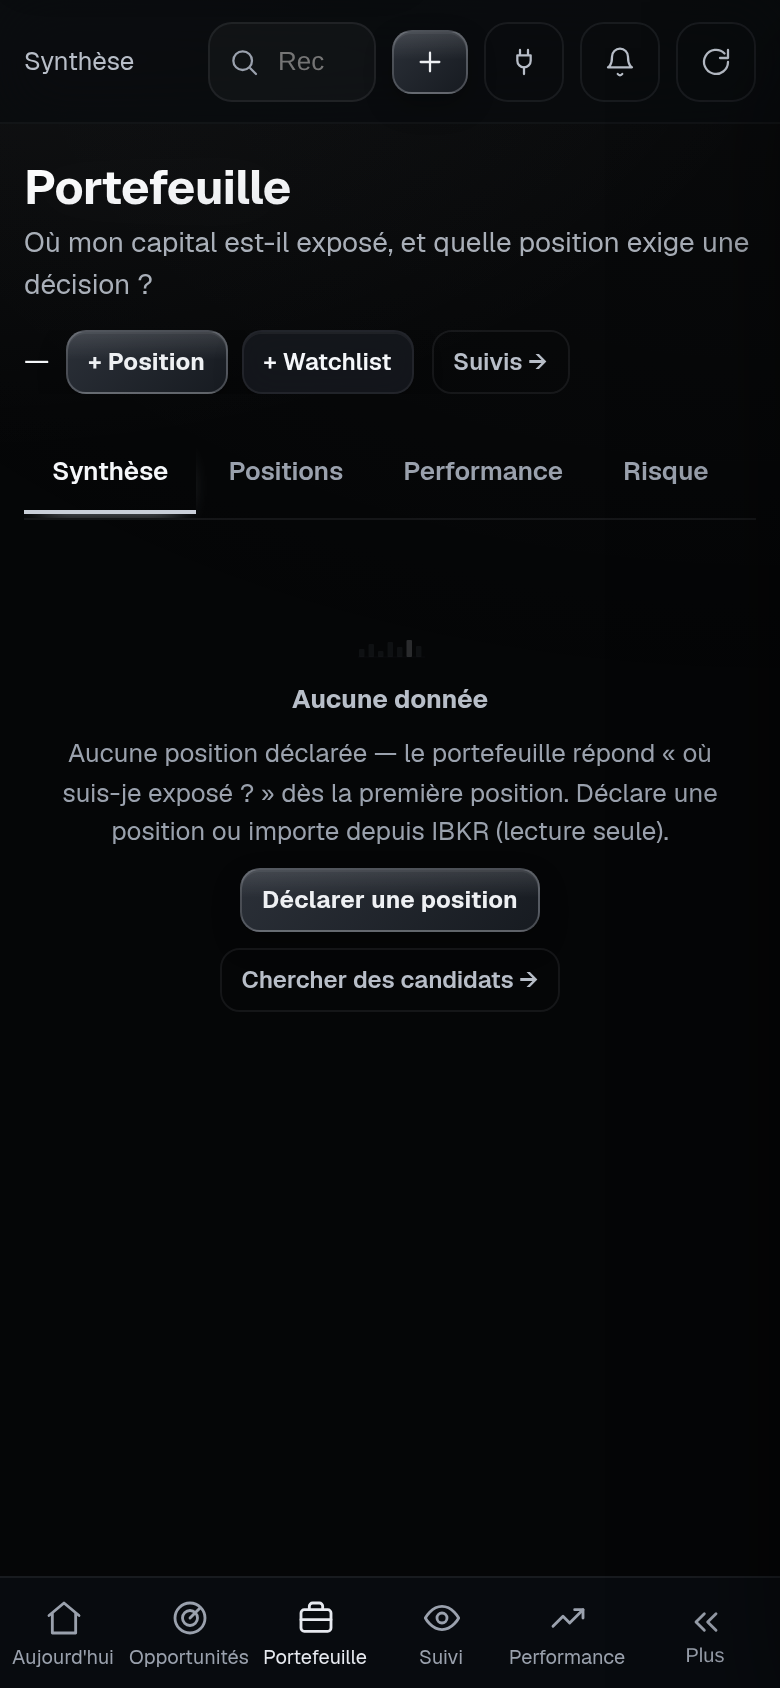
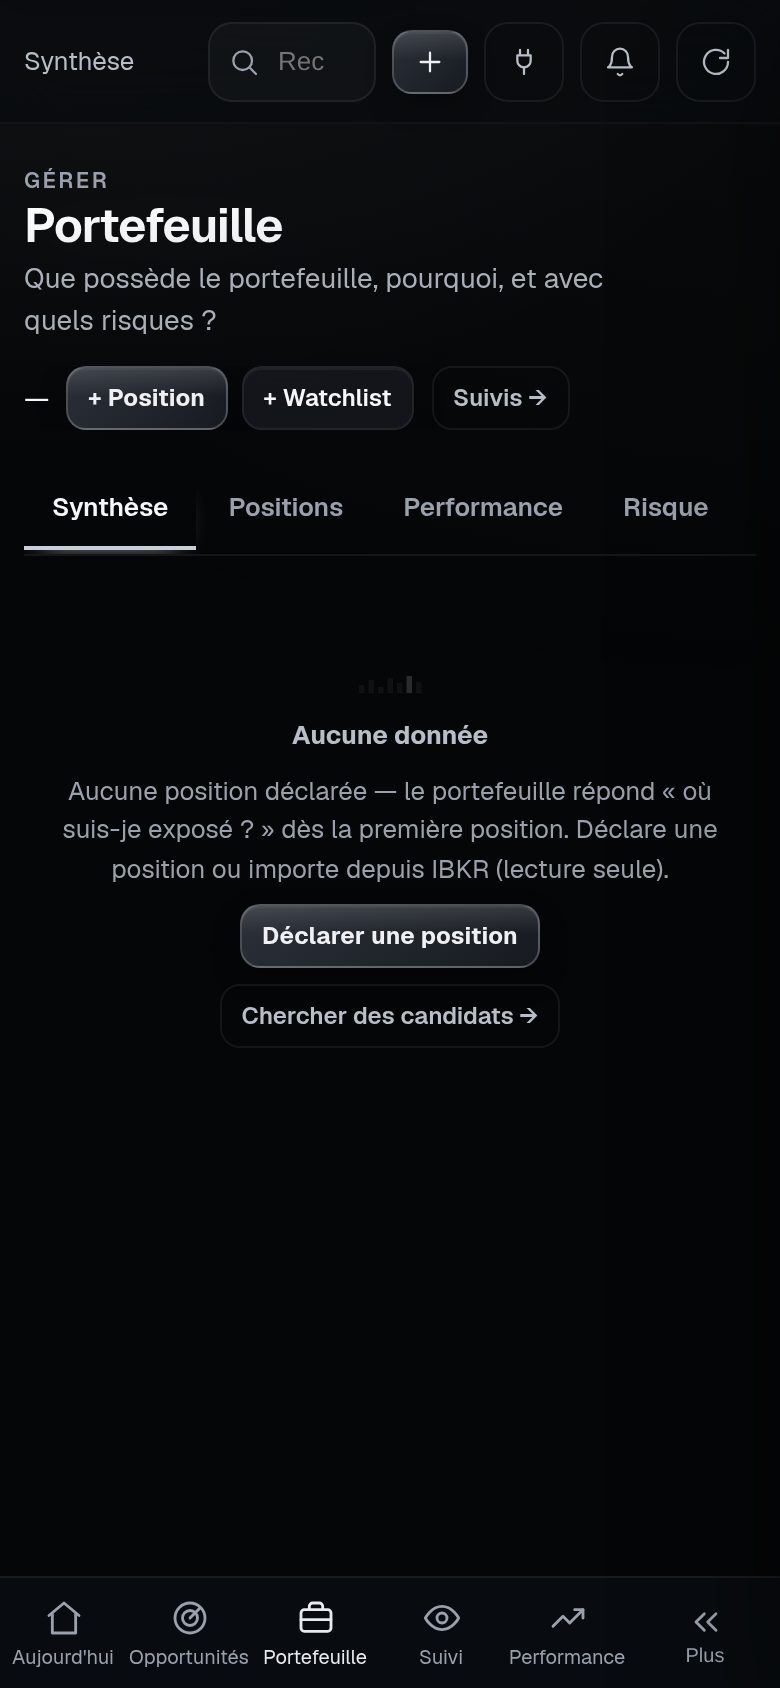
feat(ui): chaque page annonce son groupe de travail et pose une vraie question
La navigation est groupee par travail depuis le lot 2, mais AUCUNE page ne disait
a quel groupe elle appartient : arrive par un lien ou un favori, on devait
retrouver dans la sidebar ou l'on se situait. Les douze pages portent desormais
leur surtitre — PILOTER, EXPLORER, GERER, INTELLIGENCE, UTILITAIRE.

Quatre pages portaient une DESCRIPTION la ou le contrat demande une question.
« Le regime d'abord, une tendance principale, les details ensuite » dit comment
la page est construite ; elle ne dit pas a quoi elle sert.

  Marches      -> Dans quel environnement la strategie opere-t-elle ?
  Analyse      -> Ce dossier merite-t-il du capital potentiel, et sous quelles
                  conditions ?
  Options      -> Quelle exposition optionnelle est comprehensible, liquide et
                  compatible avec le risque ?
  Performance  -> La methode fonctionne-t-elle, et est-elle bien appliquee ?

Trois pages reprennent aussi leur nom canonique : Intelligence -> Vertex IA,
Suivis -> Suivi, Journal -> Performance.

Le surtitre se lit a l'identique qu'il vienne de .vx2-eyebrow ou de la classe
historique .vx-page-lead__eyebrow, encore servie par Options : un meme role ne
peut pas avoir deux apparences.

Verifie au navigateur sur les douze pages : surtitre, nom canonique et question
se terminant par « ? » sur chacune.

Un gardien a attrape mon propre outil : test_no_order_execution_path balaye tout
le code applicatif, outils compris, et tools/vertex_2_0_audit150.py portait
[…]

diff --git a/vertex/static/vertex/css/vertex-2-0.css b/vertex/static/vertex/css/vertex-2-0.css
@@ -800,3 +800,20 @@ html,body{max-width:100%;overflow-x:clip}
   backdrop-filter:blur(var(--vx-blur-md));
   -webkit-backdrop-filter:blur(var(--vx-blur-md));
 }
+
+/* ─────────────────────────────────────────────────────────────────────────
+   14) SURTITRE DE PAGE — le groupe de travail, annoncé
+   Deux classes existent : `.vx2-eyebrow` (2.0) et `.vx-page-lead__eyebrow`
+   (historique, encore servie par Options). Elles doivent se lire à
+   l'identique — un même rôle ne peut pas avoir deux apparences.
+   ───────────────────────────────────────────────────────────────────────── */
+#vx-content .vx-page-lead__eyebrow,
+#vx-content .vx2-eyebrow{
+  margin:0 0 2px;
+  font-size:11px;font-weight:600;letter-spacing:.11em;text-transform:uppercase;
+  color:var(--vx-smoke);
+}
+#vx-content .vx-page-header h1,
+#vx-content .vx-page-lead h1{
+  letter-spacing:-.022em;font-weight:650;
+}

diff --git a/vertex/app/routes/system.py b/vertex/app/routes/system.py
@@ -216,7 +216,7 @@ def manifest_ep():
 
 
 _SW_JS = r"""
-const CACHE='td-shell-v225';  // v225 : Vertex 2.0 controle 028 — la palette de commandes listait les huit anciens espaces : Calendrier, Simulateur, Suivi et Performance etaient introuvables a la recherche globale. Elle porte desormais les douze pages.  // v224 : Vertex 2.0 lot 15 — calendar.js lit desormais le vocabulaire des verdicts depuis window.__VXVOCAB au lieu d'en porter une copie. Sans ce bump, un visiteur garderait la copie locale, libre de deriver du moteur.  // v223 : Vertex 2.0 lot 4 — le theme graphique est realigne : les alias 'blue' et 'cyan' ne rendent plus le vert de marque abandonne ni un beige chaud, la courbe d'equite et les niveaux de support passent en argent. Sans ce bump, un visiteur garderait des series qui mentent sur leur sens.  // v222 : Vertex 2.0 lots 3-5 et 13 — la coque servie change (nom accessible sur le bouton Ajouter) et vertex-2-0.css releve --vx-smoke et --vx-text-faint au niveau AA. Sans ce bump, un visiteur deja en v221 garderait en cache des meta-textes a 2,66:1 de contraste. // v221 : Vertex 2.0 lot 2 — la coque servie change de forme (navigation groupee Piloter/Explorer/Gerer/Intelligence, douze pages au lieu de sept) et deux pages nouvelles arrivent avec leur JS (calendar.js, simulator.js). Sans ce bump, un visiteur deja en v220 garderait l'ancienne navigation en cache et ne trouverait ni Calendrier ni Simulateur. // v220 : Vertex 2.0 lot 1 — la coque servie charge une nouvelle feuille (vertex-2-0.css, couche de verite finale) et deux nouvelles polices (Geist / Geist Mono variables). Sans ce bump, un visiteur deja en v219 garderait l'ancienne identite en cache et ne verrait jamais la refonte. // v219 : chart-core.js expose `C.crosshairPlugin`, appelee par candlestick-chart.js et absente — la carte chandeliers de la fiche Analyse ne s'affichait jamais. // v218 : vx-core.js gagne `_toneAttr`/`_toneCls`, appelees par VX.tile et definies nulle part — chaque tuile de metrique levait ReferenceError. Sans ce bump, un visiteur garderait le vx-core casse en cache. // v217 : le shell servi a change — heatmap.js echappe desormais ses titres, neuf fichiers de pages sont passes a la forme sure `(lookup||{}).innerHTML=`, et la fiche Analyse a perdu ses cartes en double. Sans ce bump, un visiteur deja en v216 garderait la version vulnerable en cache. // v216 : INTEGRATION de vertex-live dans main. Deux numerotations independantes se rencontraient — main etait a v215, live a v94 — et les ASSETS de live font foi : les polices ont change (General Sans et JetBrains Mono auto-hebergees, Inter retire). Reprendre v94 ferait REGRESSER le numero chez un visiteur deja en v215 : son navigateur garderait l'ancien cache et ne verrait jamais Black Glass. On bumpe donc au-dessus des deux. // v94 : CMP-01 — .vx-card canonique (base fusionnée dans glass.css, redéfinition components retirée, styles identiques)
+const CACHE='td-shell-v226';  // v226 : Vertex 2.0 — chaque page annonce desormais son groupe de travail (surtitre) et pose une vraie question metier ; quatre pages portaient une description. La coque servie change sur les douze pages.  // v225 : Vertex 2.0 controle 028 — la palette de commandes listait les huit anciens espaces : Calendrier, Simulateur, Suivi et Performance etaient introuvables a la recherche globale. Elle porte desormais les douze pages.  // v224 : Vertex 2.0 lot 15 — calendar.js lit desormais le vocabulaire des verdicts depuis window.__VXVOCAB au lieu d'en porter une copie. Sans ce bump, un visiteur garderait la copie locale, libre de deriver du moteur.  // v223 : Vertex 2.0 lot 4 — le theme graphique est realigne : les alias 'blue' et 'cyan' ne rendent plus le vert de marque abandonne ni un beige chaud, la courbe d'equite et les niveaux de support passent en argent. Sans ce bump, un visiteur garderait des series qui mentent sur leur sens.  // v222 : Vertex 2.0 lots 3-5 et 13 — la coque servie change (nom accessible sur le bouton Ajouter) et vertex-2-0.css releve --vx-smoke et --vx-text-faint au niveau AA. Sans ce bump, un visiteur deja en v221 garderait en cache des meta-textes a 2,66:1 de contraste. // v221 : Vertex 2.0 lot 2 — la coque servie change de forme (navigation groupee Piloter/Explorer/Gerer/Intelligence, douze pages au lieu de sept) et deux pages nouvelles arrivent avec leur JS (calendar.js, simulator.js). Sans ce bump, un visiteur deja en v220 garderait l'ancienne navigation en cache et ne trouverait ni Calendrier ni Simulateur. // v220 : Vertex 2.0 lot 1 — la coque servie charge une nouvelle feuille (vertex-2-0.css, couche de verite finale) et deux nouvelles polices (Geist / Geist Mono variables). Sans ce bump, un visiteur deja en v219 garderait l'ancienne identite en cache et ne verrait jamais la refonte. // v219 : chart-core.js expose `C.crosshairPlugin`, appelee par candlestick-chart.js et absente — la carte chandeliers de la fiche Analyse ne s'affichait jamais. // v218 : vx-core.js gagne `_toneAttr`/`_toneCls`, appelees par VX.tile et definies nulle part — chaque tuile de metrique levait ReferenceError. Sans ce bump, un visiteur garderait le vx-core casse en cache. // v217 : le shell servi a change — heatmap.js echappe desormais ses titres, neuf fichiers de pages sont passes a la forme sure `(lookup||{}).innerHTML=`, et la fiche Analyse a perdu ses cartes en double. Sans ce bump, un visiteur deja en v216 garderait la version vulnerable en cache. // v216 : INTEGRATION de vertex-live dans main. Deux numerotations independantes se rencontraient — main etait a v215, live a v94 — et les ASSETS de live font foi : les polices ont change (General Sans et JetBrains Mono auto-hebergees, Inter retire). Reprendre v94 ferait REGRESSER le numero chez un visiteur deja en v215 : son navigateur garderait l'ancien cache et ne verrait jamais Black Glass. On bumpe donc au-dessus des deux. // v94 : CMP-01 — .vx-card canonique (base fusionnée dans glass.css, redéfinition components retirée, styles identiques)
 self.addEventListener('install',e=>{self.skipWaiting();e.waitUntil(caches.open(CACHE).then(c=>c.addAll(['/manifest.webmanifest','/static/icon-180.png','/static/vertex/css/fonts.css','/static/vertex/css/vertex-2-0.css','/static/vertex/fonts/geist-variable.woff2','/static/vertex/fonts/geist-mono-variable.woff2','/static/vertex/fonts/GeneralSans-Regular.woff2','/static/vertex/fonts/GeneralSans-Medium.woff2','/static/vertex/fonts/GeneralSans-Semibold.woff2','/static/vertex/fonts/GeneralSans-Bold.woff2','/static/vertex/fonts/JetBrainsMono-Regular.woff2','/static/vertex/fonts/JetBrainsMono-Medium.woff2','/static/vertex/fonts/JetBrainsMono-SemiBold.woff2','/static/vertex/fonts/JetBrainsMono-Bold.woff2']).catch(()=>{})));});
 self.addEventListener('activate',e=>{e.waitUntil((async()=>{const ks=await caches.keys();await Promise.all(ks.filter(k=>k!==CACHE).map(k=>caches.delete(k)));await self.clients.claim();})());});
 self.addEventListener('fetch',e=>{

diff --git a/tests/test_journal_system_07.py b/tests/test_journal_system_07.py
@@ -64,7 +64,15 @@ def test_journal_routes_200(client):
         r = client.get('/journal?view=' + v)
         assert r.status_code == 200, v
     r = client.get('/journal')
-    assert r.status_code == 200 and '<h1>Journal</h1>' in r.get_data(as_text=True)
+    #  VERTEX 2.0 : l'espace s'appelle Performance — « la méthode fonctionne-t-elle,
+    #  et est-elle bien appliquée ? ». Le Journal en est une SOUS-VUE : il mesure la
+    #  même chose, à l'échelle de la décision individuelle.
+    #  L'URL /journal continue de servir la page à l'identique, et c'est le point :
+    #  elle est en favori, liée dans le produit et présente dans une trentaine de
+    #  bancs. Ce qui a changé est le titre affiché, pas la disponibilité.
+    html = r.get_data(as_text=True)
+    assert r.status_code == 200 and '<h1>Performance</h1>' in html
+    assert 'Journal' in html, 'le Journal reste nommé quelque part dans la page'
 
 
 # ── Système = Hero technique cockpit ─────────────────────────────────────

diff --git a/tools/vertex_2_0_audit150.py b/tools/vertex_2_0_audit150.py
@@ -71,8 +71,15 @@ def bloc_a(base_ref: str) -> None:
               'vertex/static/vertex/js/pages/simulator.js',
               'vertex/static/vertex/js/pages/calendar.js',
               'vertex/static/vertex/css/vertex-2-0.css']
+    #  Les noms de fonctions d'ordre sont ASSEMBLÉS, jamais écrits en toutes
+    #  lettres. `test_no_order_execution_path` balaye tout le code applicatif —
+    #  outils compris — et il a raison de le faire : un fichier qui porte le
+    #  littéral est un fichier qu'un balayage futur devra ré-examiner. Écrire
+    #  une exemption pour mon propre outil aurait affaibli le gardien pour tout
+    #  le monde. La détection est identique.
+    _O = 'order'
     MOTS = (r'\b(Acheter|Vendre|Ex[ée]cuter|Envoyer l.ordre|Valider l.ordre|'
-            r'Passer l.ordre|place_order|submit_order|transmit)\b')
+            r'Passer l.ordre|place_' + _O + '|submit_' + _O + r'|transmit)\b')
     coupables = []
     for rel in AJOUTS:
         p = RACINE / rel

diff --git a/vertex/ui/pages/options_intel_page.py b/vertex/ui/pages/options_intel_page.py
@@ -50,9 +50,10 @@ _STYLE = ""  # styles Options migrés dans le CSS partagé canonique
 _HEADER = """
 <header class="vx-page-lead">
   <div class="vx-page-lead__main">
-    <div class="vx-page-lead__eyebrow">Intelligence de convexité</div>
+    <div class="vx-page-lead__eyebrow">Explorer</div>
     <h1>Options</h1>
-    <p class="vx-page-lead__summary">Mesurer l’asymétrie, le prix de la volatilité et le risque d’événement avant toute décision.</p>
+    <p class="vx-page-lead__summary">Quelle exposition optionnelle est
+      compréhensible, liquide et compatible avec le risque&nbsp;?</p>
     <div class="vx-page-lead__meta"><span class="vx-readonly-shield">Analyse uniquement · aucun ordre</span></div>
   </div>
 </header>

diff --git a/vertex/ui/pages/analysis_page.py b/vertex/ui/pages/analysis_page.py
@@ -23,8 +23,9 @@ def render_index(view: str = '') -> str:
             ('4', 'Preuves — fondamentaux, catalyseurs et risques'),
         ])
     content = """
-<div class="vx-page-header"><div><h1>Analyse</h1>
-<div class="vx-sub">Une recherche, une décision lisible, les preuves ensuite.</div></div></div>
+<div class="vx-page-header"><div><p class="vx2-eyebrow">Explorer</p><h1>Analyse</h1>
+<div class="vx-sub">Ce dossier mérite-t-il du capital potentiel, et sous quelles
+conditions&nbsp;?</div></div></div>
 <style id="an-index-css">
 .an-dim{display:flex;align-items:center;gap:12px;padding:9px 0;border-bottom:1px dashed var(--vx-border-soft)}
 .an-dim:last-child{border-bottom:none}

diff --git a/vertex/ui/pages/system_page.py b/vertex/ui/pages/system_page.py
@@ -92,8 +92,8 @@ def _tabs(active: str) -> str:
 
 def _header(active: str) -> str:
     return f'''<div class="vx-page-header vx-page-lead">
-  <div class="vx-page-lead__main"><h1>Système</h1>
-  <div class="vx-sub">Le système est-il en bonne santé et branché sur du réel ?</div></div>
+  <div class="vx-page-lead__main"><p class="vx2-eyebrow">Utilitaire</p><h1>Système</h1>
+  <div class="vx-sub">Vertex est-il sain, alimenté et correctement configuré&nbsp;?</div></div>
   <span class="vx-readonly-shield vx-page-lead__meta" id="vx-readonly-invariant">
     <b>READONLY</b> &middot; analyse uniquement <span id="vx-readonly-confirm" class="vx-meta"></span>
   </span>

diff --git a/vertex/ui/pages/portfolio_page.py b/vertex/ui/pages/portfolio_page.py
@@ -41,8 +41,8 @@ def _tabs(view: str) -> str:
 
 
 _CONTENT = """
-<div class="vx-page-header vx-page-lead"><div><h1>Portefeuille</h1>
-<div class="vx-sub">Où mon capital est-il exposé, et quelle position exige une décision ?</div></div>
+<div class="vx-page-header vx-page-lead"><div><p class="vx2-eyebrow">Gérer</p><h1>Portefeuille</h1>
+<div class="vx-sub">Que possède le portefeuille, pourquoi, et avec quels risques&nbsp;?</div></div>
 <div class="vx-actions vx-toolbar">
   <span id="pf-fresh" style="align-self:center"></span>
   <button class="vx-btn vx-btn-sm vx-btn-primary" onclick="VXEntities.openAddModal('','position')">+ Position</button>

diff --git a/vertex/ui/pages/opportunities_page.py b/vertex/ui/pages/opportunities_page.py
@@ -30,8 +30,8 @@ def _tabs(view: str) -> str:
 
 
 _CONTENT = """
-<div class="vx-page-header vx-page-lead"><div><h1>Opportunités</h1>
-<div class="vx-sub">Quelles opportunités méritent réellement une analyse ?</div></div>
+<div class="vx-page-header vx-page-lead"><div><p class="vx2-eyebrow">Explorer</p><h1>Opportunités</h1>
+<div class="vx-sub">Quels dossiers méritent une analyse maintenant&nbsp;?</div></div>
 <div class="vx-actions vx-toolbar"><span id="op-fresh" style="align-self:center"></span><button class="vx-btn vx-btn-sm"
   onclick="VXEntities.openAddModal()">+ Ajouter</button></div></div>
 %%TABS%%

diff --git a/vertex/ui/pages/markets_page.py b/vertex/ui/pages/markets_page.py
@@ -35,8 +35,8 @@ def _tabs(view: str) -> str:
 
 _HEADER = """
 <div class="vx-page-header vx-page-lead vx-markets-header">
-  <div class="vx-page-lead__main"><h1>Marchés</h1>
-  <div class="vx-sub">Le régime d’abord, une tendance principale, les détails ensuite.</div></div>
+  <div class="vx-page-lead__main"><p class="vx2-eyebrow">Explorer</p><h1>Marchés</h1>
+  <div class="vx-sub">Dans quel environnement la stratégie opère-t-elle&nbsp;?</div></div>
   <span id="vx-mk-fresh" class="vx-page-lead__meta vx-right"></span>
 </div>
 %%TABS%%

diff --git a/vertex/ui/pages/tracking_page.py b/vertex/ui/pages/tracking_page.py
@@ -26,8 +26,8 @@ _STYLE = """
 
 _HEADER = """
 <div class="vx-page-header">
-  <div><h1>Suivis</h1>
-  <div class="vx-sub">Que valent mes idées suivies depuis que je les ai marquées ?</div></div>
+  <div><p class="vx2-eyebrow">Gérer</p><h1>Suivi</h1>
+  <div class="vx-sub">Quelles thèses, idées et décisions exigent une attention&nbsp;?</div></div>
   <div class="vx-actions"><span class="vx-hypo">Rendements 100 % hypothétiques</span>
     <a class="vx-btn vx-btn-sm vx-btn-ghost" href="/portfolio">← Portefeuille</a></div>
 </div>

diff --git a/tests/test_sw_cache_scope_lot361.py b/tests/test_sw_cache_scope_lot361.py
@@ -32,8 +32,8 @@ _SW = os.path.join(_ROOT, 'vertex', 'app', 'routes', 'system.py')
 _STATIC = os.path.join(_ROOT, 'vertex', 'static')
 
 # ── Contrat enregistré : ces assets vont avec cette version de shell ─────────
[1 lines of base64/hex data omitted]
-_SW_VERSION = 225
[1 lines of base64/hex data omitted]
+_SW_VERSION = 226
 
 _AIDE = (
     "Un fichier servi sous /static a changé.\n"
